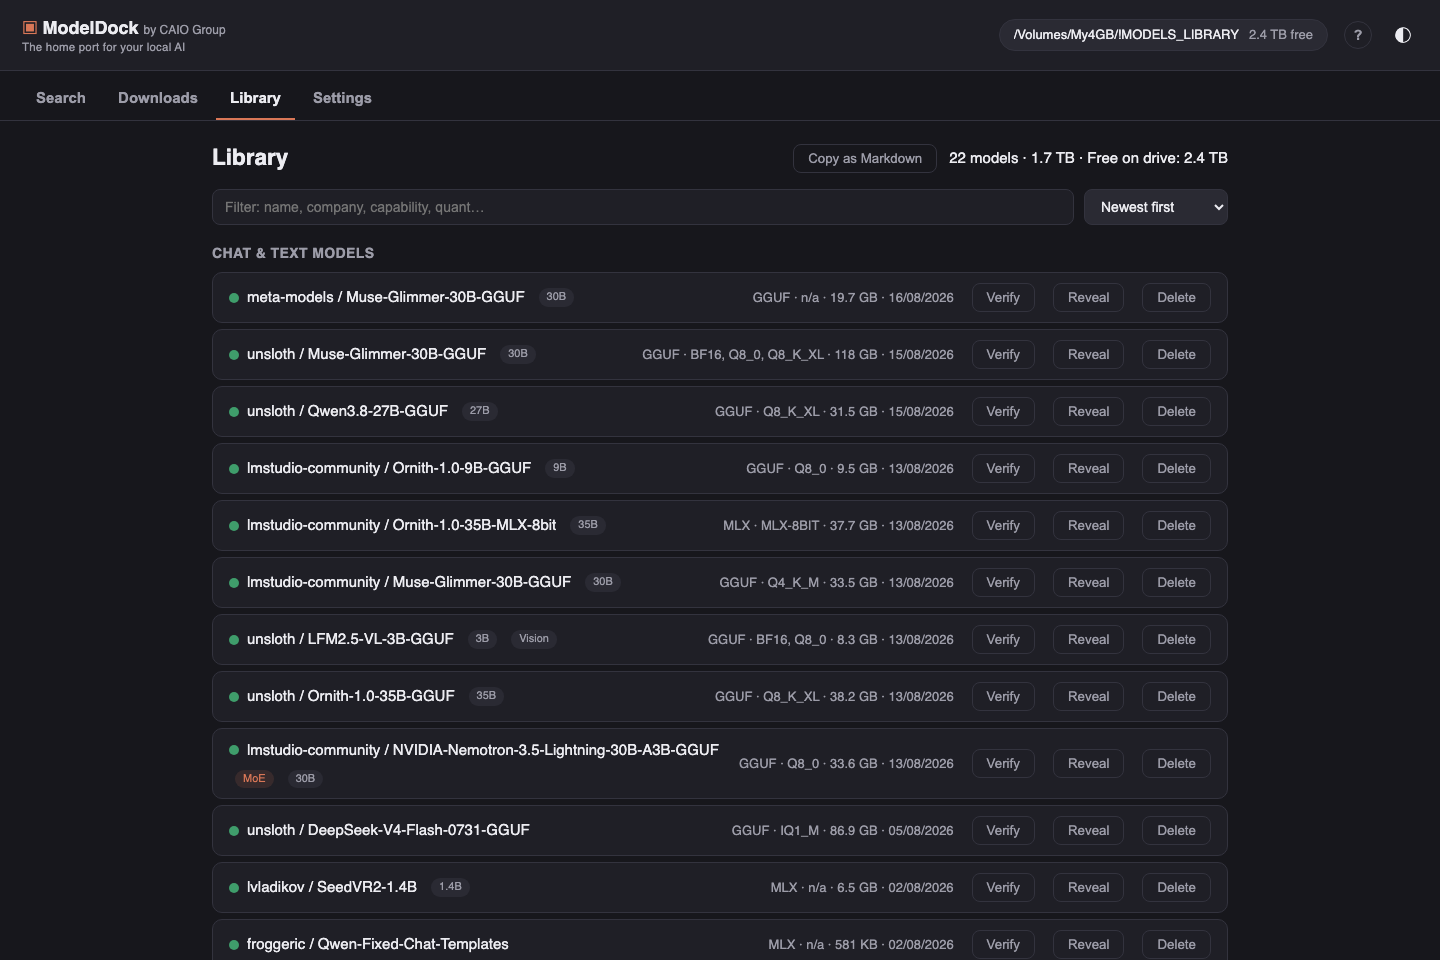
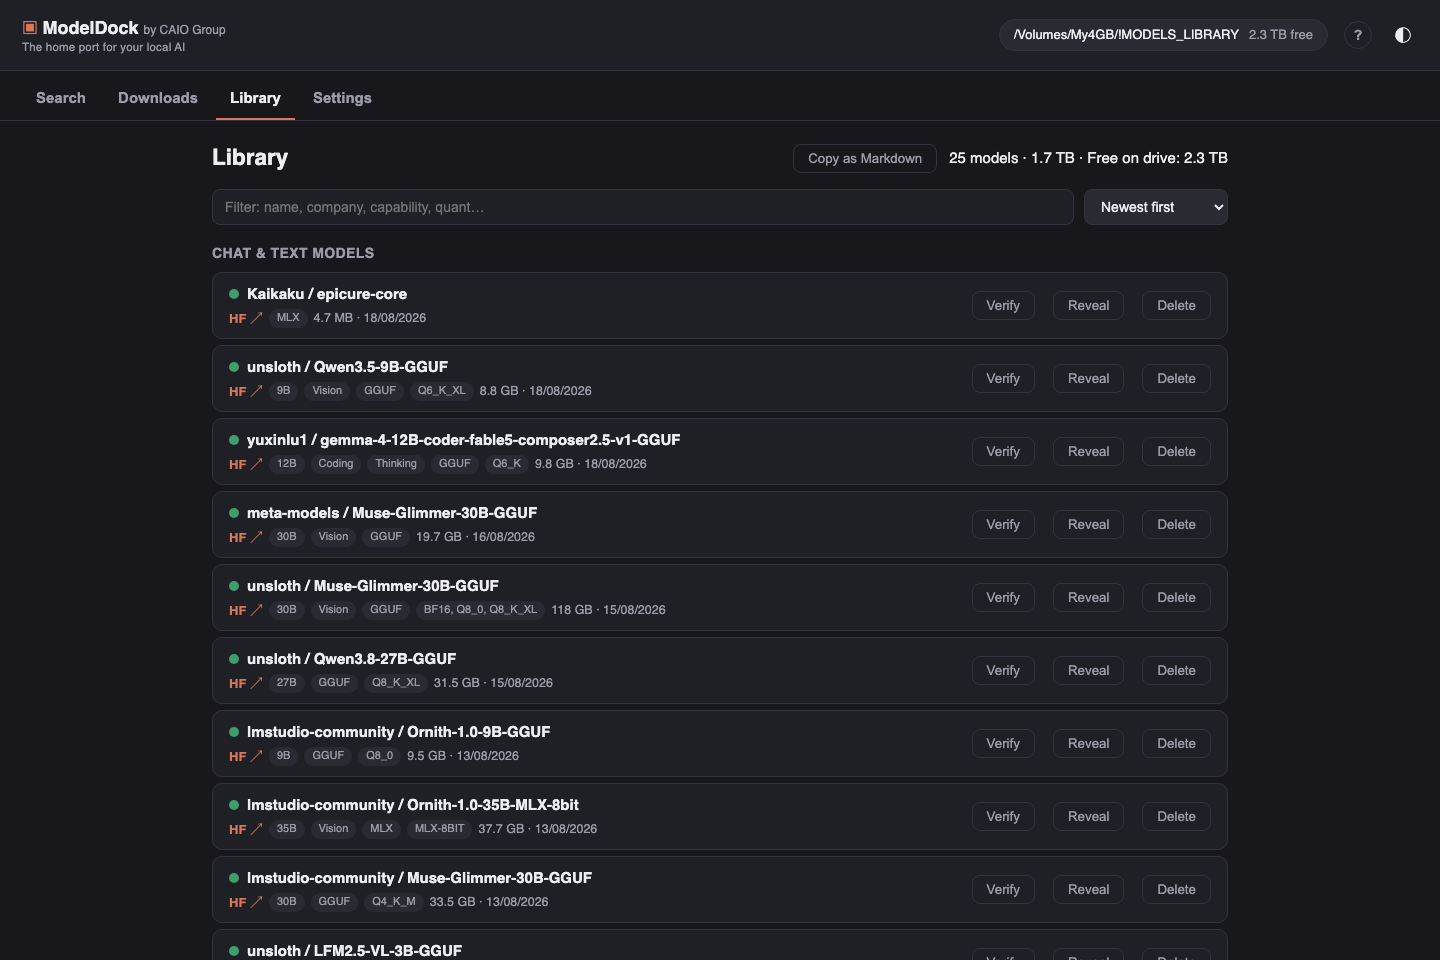
ui: two-line library rows — title first, link and characteristics beneath

diff --git a/web/app.js b/web/app.js
@@ -668,23 +668,31 @@ function renderLibrary() {
     const g = el("div", "lib-group"); g.append(el("h3", "", "Chat & text models"));
     text.forEach((m) => {
       const it = el("div", "lib-item");
-      const nm = el("div", "lib-name");
+      const main = el("div", "lib-main");
+      // Line 1: the model's name, alone and readable.
+      const titleRow = el("div", "lib-title-row");
       const fit = el("span", "fit " + (m.fits || "unknown"));
       fit.title = FIT_TITLES[m.fits || "unknown"];
-      const title = el("span", "lib-title", m.company + " / " + m.model);
-      nm.append(fit, title);
+      titleRow.append(fit, el("span", "lib-title", m.company + " / " + m.model));
+      if (m.incomplete) titleRow.append(el("span", "pill gated", "incomplete"));
+      main.append(titleRow);
+      // Line 2: the link and every characteristic.
+      const sub = el("div", "lib-sub");
       const hfa = el("a", "hflink", "HF ↗");
       hfa.href = "https://huggingface.co/" + (m.hf_id || m.company + "/" + m.model);
       hfa.target = "_blank"; hfa.rel = "noopener";
       hfa.title = "Open the model page on Hugging Face (instructions, prompt formats, updates)";
       hfa.addEventListener("click", (ev) => ev.stopPropagation());
-      nm.append(hfa);
-      if (m.params && m.params.moe) nm.append(el("span", "pill moe", "MoE"));
-      if (m.params && m.params.total_b) nm.append(el("span", "pill", m.params.total_b + "B"));
-      (m.caps || []).forEach((c) => LIB_CAPS[c] && nm.append(el("span", "pill", LIB_CAPS[c])));
-      if (m.incomplete) nm.append(el("span", "pill gated", "incomplete"));
-      it.append(nm, el("span", "meta", m.format + " · " + (m.quants.join(", ") || "n/a") +
-        " · " + fmtBytes(m.size) + " · " + new Date(m.mtime * 1000).toLocaleDateString()));
+      sub.append(hfa);
+      if (m.params && m.params.moe) sub.append(el("span", "pill moe", "MoE"));
+      if (m.params && m.params.total_b) sub.append(el("span", "pill", m.params.total_b + "B"));
+      (m.caps || []).forEach((c) => LIB_CAPS[c] && sub.append(el("span", "pill", LIB_CAPS[c])));
+      sub.append(el("span", "pill", m.format));
+      if (m.quants.length) sub.append(el("span", "pill", m.quants.join(", ")));
+      sub.append(el("span", "lib-meta", fmtBytes(m.size) + " · " +
+        new Date(m.mtime * 1000).toLocaleDateString()));
+      main.append(sub);
+      it.append(main);
       it.append(...libActions(m.path));
       it.style.cursor = "pointer";
       it.title = "Click for the model's own documentation";
@@ -719,8 +727,12 @@ function renderLibrary() {
     const g = el("div", "lib-group"); g.append(el("h3", "", "Image & video models (ComfyUI)"));
     comfy.forEach((m) => {
       const it = el("div", "lib-item");
-      it.append(el("span", "", m.name),
-        el("span", "meta", m.subfolder + " · " + fmtBytes(m.size)));
+      const main = el("div", "lib-main");
+      main.append(el("div", "lib-title-row"), el("div", "lib-sub"));
+      main.children[0].append(el("span", "lib-title", m.name));
+      main.children[1].append(el("span", "pill", m.subfolder),
+        el("span", "lib-meta", fmtBytes(m.size)));
+      it.append(main);
       it.append(...libActions(m.path));
       g.append(it);
     });

diff --git a/web/style.css b/web/style.css
@@ -176,7 +176,13 @@ button.ghost {
   display: flex; align-items: center; gap: 12px; background: var(--bg2);
   border: 1px solid var(--line); border-radius: 10px; padding: 10px 16px; margin-bottom: 6px;
 }
-.lib-item .meta { color: var(--muted); font-size: 13px; margin-left: auto; flex-shrink: 0; }
+.lib-main { flex: 1; min-width: 0; display: flex; flex-direction: column; gap: 3px; }
+.lib-title-row { display: flex; align-items: center; gap: 8px; min-width: 0; }
+.lib-title { font-weight: 600; overflow: hidden; text-overflow: ellipsis; white-space: nowrap; }
+.lib-sub { display: flex; align-items: center; gap: 6px; flex-wrap: wrap; }
+.lib-sub .pill { margin-left: 0; }
+.lib-sub .hflink { margin-left: 0; font-weight: 600; }
+.lib-meta { color: var(--muted); font-size: 12.5px; }
 .lib-item button { margin-left: 6px; flex-shrink: 0; }
 .shields { display: flex; flex-wrap: wrap; gap: 8px; margin: 4px 0 12px; }
 .shield {
